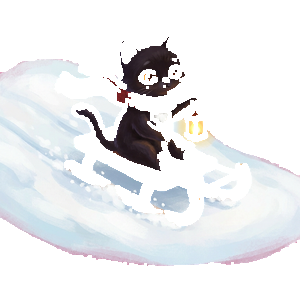
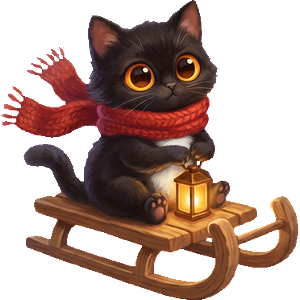
fix(musicbox-v2): round-2 art regen — eliminate vehicle rects + picker clipping + jingle fringe
Vehicle sprites regenerated with environment-free prompts (no water/waves
for row, no snow/slope for jingle) so they composite seamlessly over the
parallax strip layers instead of showing a visible rectangular boundary.

Picker portraits regenerated centered with generous padding — eliminates
the right-side clipping on unicorn/cat and white fringe on dog.

Jingle mid+fg strips regenerated with tree-containment prompt and the
MinFilter(5) chroma de-fringe (up from 3) to eliminate the magenta outline
along the snow contour.

Verified: tsc clean, 358/358 vitest pass, Playwright screenshots confirm
clean compositing across all 3 scenes (start + tapped variants) and the
picker card view.

diff --git a/tools/gen/chroma.py b/tools/gen/chroma.py
@@ -39,7 +39,7 @@ def key_strip_magenta(img: Image.Image) -> Image.Image:
     alpha = np.where(bg, 0, 255).astype(np.uint8)
 
     from PIL import ImageFilter
-    a_img = Image.fromarray(alpha, "L").filter(ImageFilter.MinFilter(3))
+    a_img = Image.fromarray(alpha, "L").filter(ImageFilter.MinFilter(5))
     alpha = np.asarray(a_img)
 
     rgba = np.dstack([rgb.astype(np.uint8), alpha])
